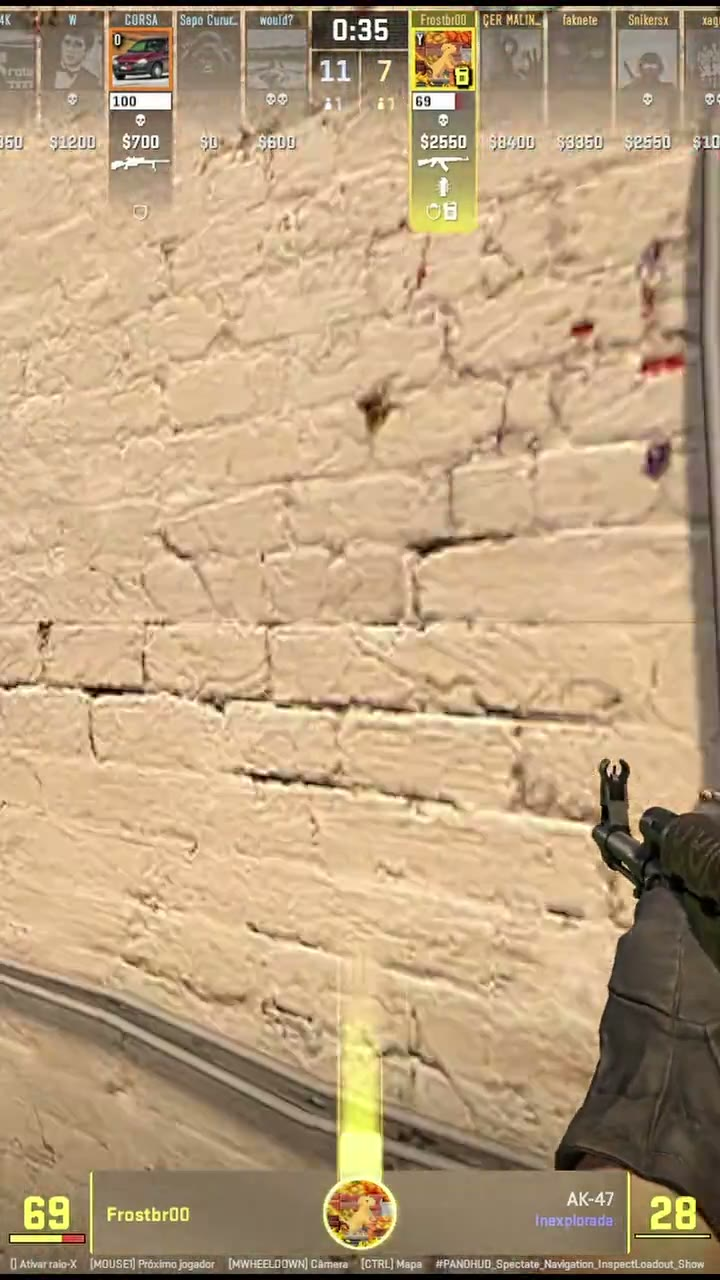
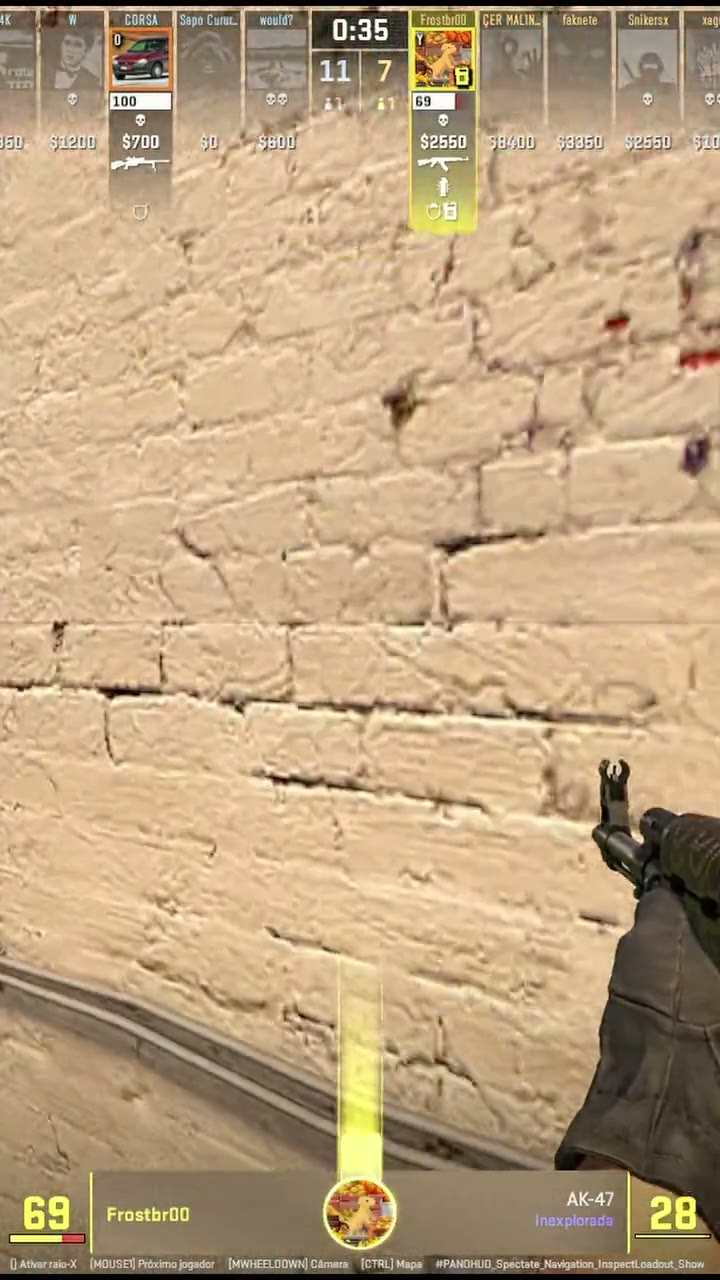
Reencoda videos a partir do material mais recente (v3)
O arquivo do WRC fornecido era a captura bruta em HEVC (nao suportado
pela maioria dos navegadores) e o clipe de CS2 havia sido reempacotado
em MKV (container que o <video> do HTML5 nao reproduz em nenhum
navegador). Reencodei ambos para H.264 + AAC em mp4, yuv420p em faixa
de cor limitada, sem faixas de dados extras, e renomeei para -v3 para
evitar qualquer cache stale do fix anterior.

diff --git a/index.html b/index.html
@@ -166,14 +166,14 @@
       <div class="video-card">
         <h3>WRC Generations — Rally</h3>
         <video controls preload="metadata" poster="assets/img/poster-wrc.jpg" playsinline>
-          <source src="assets/video/wrc-rally-v2.mp4" type="video/mp4">
+          <source src="assets/video/wrc-rally-v3.mp4" type="video/mp4">
           Seu navegador não suporta reprodução de vídeo.
         </video>
       </div>
       <div class="video-card">
         <h3>CS2 — Jogatina de FPS</h3>
         <video controls preload="metadata" poster="assets/img/poster-cs2.jpg" playsinline class="video-vertical">
-          <source src="assets/video/cs2-fps-v2.mp4" type="video/mp4">
+          <source src="assets/video/cs2-fps-v3.mp4" type="video/mp4">
           Seu navegador não suporta reprodução de vídeo.
         </video>
       </div>

diff --git a/README.md b/README.md
@@ -24,12 +24,19 @@ Site de perfil/portfólio pessoal de **Abner Salatiel de Oliveira**, estudante d
 - **Biografia adicionada** na seção "Sobre", com o link do perfil da Steam em destaque (botão com ícone), além de
   um segundo botão de Steam na seção de contato ao lado do Instagram.
 - Verificação de imagens, vídeos e links (âncoras internas e externos) sem 404 ou recursos quebrados.
-- **Vídeos renomeados para `wrc-rally-v2.mp4` e `cs2-fps-v2.mp4`.** O GitHub Pages (CDN Fastly) anuncia suporte a
+- **Vídeos renomeados para `wrc-rally-v3.mp4` e `cs2-fps-v3.mp4`.** O GitHub Pages (CDN Fastly) anuncia suporte a
   `Range` requests mas nem sempre os respeita (retorna o arquivo inteiro com `200` em vez de `206 Partial Content`),
   e navegadores que já tinham armazenado em cache o arquivo antigo quebrado sob a mesma URL podiam continuar
   reproduzindo bytes antigos ou corrompidos mesmo após a correção do codec. Trocar o nome do arquivo força todo
   visitante a baixar a versão corrigida do zero. **Sempre que o conteúdo de um vídeo for atualizado no futuro, use
-  um novo nome de arquivo** (ex.: `-v3`) em vez de sobrescrever o mesmo caminho, para evitar esse problema de cache.
+  um novo nome de arquivo** (ex.: `-v4`) em vez de sobrescrever o mesmo caminho, para evitar esse problema de cache.
+- **Importante sobre o pipeline de vídeo:** o site nunca usa diretamente os arquivos brutos de captura. Vídeos de
+  jogo costumam sair em **HEVC/H.265** (não suportado nativamente pela maioria dos navegadores) ou em contêineres
+  como **MKV/MOV** (o `<video>` do HTML5 não reproduz `.mkv` em nenhum navegador principal, independente do codec
+  interno). Por isso todo vídeo publicado passa por uma recompressão para **H.264 + AAC dentro de um `.mp4`**,
+  com `pix_fmt yuv420p` em faixa de cor limitada (*tv range*) e sem faixas de dados extras — o único formato com
+  suporte garantido em Chrome, Firefox, Edge e Safari/iOS. Renomear ou converter os arquivos originais na pasta de
+  origem não altera o site publicado; é sempre necessário recomprimir e reenviar os arquivos em `assets/video/`.
 
 ## Tecnologias utilizadas
 
@@ -58,8 +65,8 @@ site_meu_perfil/
     │   ├── poster-wrc.jpg  # Thumbnail do vídeo de rally
     │   └── poster-cs2.jpg  # Thumbnail do vídeo de FPS
     └── video/
-        ├── wrc-rally-v2.mp4  # Clipe jogando WRC Generations (comprimido para web)
-        └── cs2-fps-v2.mp4    # Clipe jogando CS2 (comprimido para web)
+        ├── wrc-rally-v3.mp4  # Clipe jogando WRC Generations (comprimido para web)
+        └── cs2-fps-v3.mp4    # Clipe jogando CS2 (comprimido para web)
 ```
 
 ## Como executar localmente